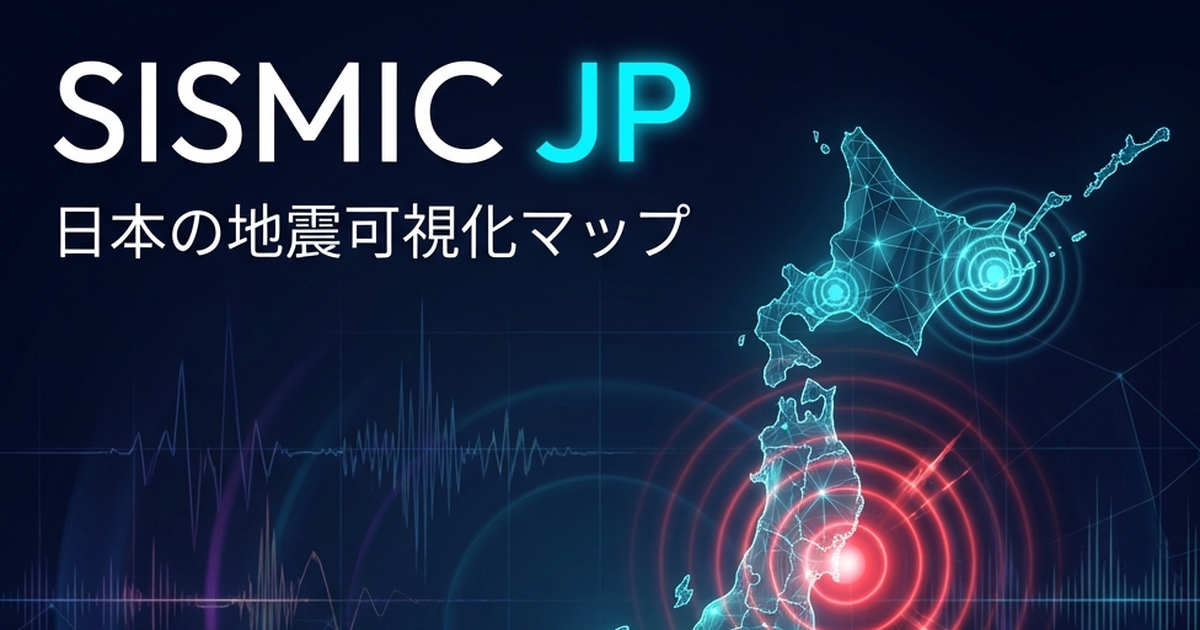
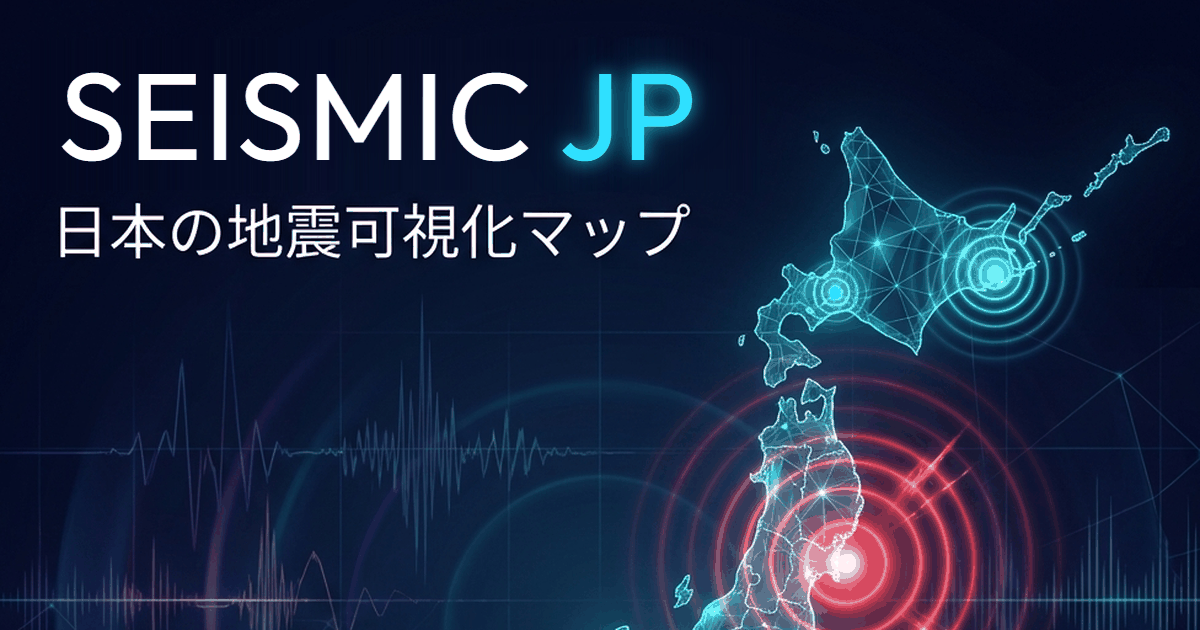
Fix SISMIC typo in OGP image, fix year tabs overlapping header, add OGP size/alt and control aria-labels, drop real-time wording

diff --git a/index.html b/index.html
@@ -4,12 +4,12 @@
 <head>
     <meta charset="UTF-8">
     <meta name="viewport" content="width=device-width, initial-scale=1.0">
-    <title>SEISMIC JP - 日本の地震可視化マップ | リアルタイム地震データ</title>
+    <title>SEISMIC JP - 日本の地震可視化マップ | 毎日更新の地震データ</title>
 
     <!-- SEO Meta Tags -->
     <meta name="description"
-        content="日本周辺で発生した地震をリアルタイムで可視化。過去1年間の地震データをアニメーションで表示し、マグニチュード別に色分け。USGSの公式データを使用した信頼性の高い地震情報サイトです。">
-    <meta name="keywords" content="地震, 日本, 地震マップ, 地震可視化, earthquake, Japan, USGS, 地震データ, 地震情報, リアルタイム地震, マグニチュード">
+        content="日本周辺で発生した地震を地図上で可視化。毎日更新される過去1年間の地震データをアニメーションで表示し、マグニチュード別に色分け。USGSの公式データを使用した信頼性の高い地震情報サイトです。">
+    <meta name="keywords" content="地震, 日本, 地震マップ, 地震可視化, earthquake, Japan, USGS, 地震データ, 地震情報, 地震履歴, マグニチュード">
     <meta name="author" content="SEISMIC JP">
     <meta name="robots" content="index, follow">
     <link rel="canonical" href="https://prime-plasma.vercel.app/">
@@ -18,8 +18,11 @@
     <meta property="og:type" content="website">
     <meta property="og:url" content="https://prime-plasma.vercel.app/">
     <meta property="og:title" content="SEISMIC JP - 日本の地震可視化マップ">
-    <meta property="og:description" content="日本周辺で発生した地震をリアルタイムで可視化。過去1年間の地震データをアニメーションで表示し、マグニチュード別に色分け。">
+    <meta property="og:description" content="日本周辺で発生した地震を地図上で可視化。毎日更新される過去1年間の地震データをアニメーションで表示し、マグニチュード別に色分け。">
     <meta property="og:image" content="https://prime-plasma.vercel.app/images/og-image.png">
+    <meta property="og:image:width" content="1200">
+    <meta property="og:image:height" content="630">
+    <meta property="og:image:alt" content="SEISMIC JP - 日本の地震可視化マップ">
     <meta property="og:locale" content="ja_JP">
     <meta property="og:site_name" content="SEISMIC JP">
 
@@ -27,7 +30,7 @@
     <meta name="twitter:card" content="summary_large_image">
     <meta name="twitter:url" content="https://prime-plasma.vercel.app/">
     <meta name="twitter:title" content="SEISMIC JP - 日本の地震可視化マップ">
-    <meta name="twitter:description" content="日本周辺で発生した地震をリアルタイムで可視化。過去1年間の地震データをアニメーションで表示。">
+    <meta name="twitter:description" content="日本周辺で発生した地震を地図上で可視化。毎日更新される過去1年間の地震データをアニメーションで表示。">
     <meta name="twitter:image" content="https://prime-plasma.vercel.app/images/og-image.png">
 
     <!-- Favicon -->
@@ -47,7 +50,7 @@
         "@type": "WebApplication",
         "name": "SEISMIC JP",
         "alternateName": "日本地震可視化マップ",
-        "description": "日本周辺で発生した地震をリアルタイムで可視化するインタラクティブな地図アプリケーション",
+        "description": "日本周辺で発生した地震を地図上でアニメーション表示するインタラクティブな地図アプリケーション",
         "url": "https://prime-plasma.vercel.app/",
         "applicationCategory": "UtilitiesApplication",
         "operatingSystem": "Web Browser",
@@ -60,7 +63,7 @@
             "@type": "Organization",
             "name": "SEISMIC JP"
         },
-        "keywords": "地震, 日本, 地震マップ, リアルタイム, USGS"
+        "keywords": "地震, 日本, 地震マップ, 地震履歴, USGS"
     }
     </script>
 
@@ -158,12 +161,12 @@
 
                 <div class="info-section">
                     <h4>データソース</h4>
-                    <p><a href="https://earthquake.usgs.gov/" target="_blank">USGS Earthquake Hazards Program</a><br>
+                    <p><a href="https://earthquake.usgs.gov/" target="_blank" rel="noopener">USGS Earthquake Hazards Program</a><br>
                         対象地域: 日本周辺 (緯度20°〜50°N, 経度120°〜155°E)<br>
                         期間: 過去1年間<br>
                         更新: 毎日 (午前9時)</p>
-                    <p>地図タイル: <a href="https://www.esri.com/" target="_blank">Esri</a> (ベースマップ) /
-                        <a href="https://maps.gsi.go.jp/development/ichiran.html" target="_blank">国土地理院</a> (地形図)</p>
+                    <p>地図タイル: <a href="https://www.esri.com/" target="_blank" rel="noopener">Esri</a> (ベースマップ) /
+                        <a href="https://maps.gsi.go.jp/development/ichiran.html" target="_blank" rel="noopener">国土地理院</a> (地形図)</p>
                 </div>
 
                 <div class="info-section">
@@ -196,15 +199,15 @@
             </div>
 
             <div class="timeline-container">
-                <button id="play-pause-btn" class="control-btn play">
+                <button id="play-pause-btn" class="control-btn play" aria-label="再生 / 一時停止" title="再生 / 一時停止">
                     <svg viewBox="0 0 24 24" width="24" height="24">
                         <path id="play-icon" d="M8 5v14l11-7z" fill="currentColor" />
                         <path id="pause-icon" d="M6 19h4V5H6v14zm8-14v14h4V5h-4z" fill="currentColor"
                             style="display:none" />
                     </svg>
                 </button>
-                <input type="range" id="timeline-slider" min="0" max="100" value="0" step="0.1">
-                <div class="speed-controls" id="speed-controls">
+                <input type="range" id="timeline-slider" aria-label="タイムライン" min="0" max="100" value="0" step="0.1">
+                <div class="speed-controls" id="speed-controls" role="group" aria-label="再生速度">
                     <button class="speed-btn" data-speed="0.5">0.5x</button>
                     <button class="speed-btn active" data-speed="1">1x</button>
                     <button class="speed-btn" data-speed="2">2x</button>

diff --git a/css/style.css b/css/style.css
@@ -56,7 +56,7 @@ body {
 
 /* Header */
 .header-overlay {
-    top: 60px;
+    top: 92px;  /* clear the year-tab bar above */
     left: 20px;
     min-width: 250px;
 }
@@ -577,7 +577,7 @@ input[type=range]::-webkit-slider-thumb {
 
     /* Header Overlay */
     .header-overlay {
-        top: 70px;
+        top: 86px;
         left: 15px;
         min-width: 280px;
         padding: 14px 16px;
@@ -681,7 +681,7 @@ input[type=range]::-webkit-slider-thumb {
 
     /* Header Overlay */
     .header-overlay {
-        top: 55px;
+        top: 70px;
         left: 8px;
         right: auto;
         min-width: auto;
@@ -806,7 +806,7 @@ input[type=range]::-webkit-slider-thumb {
     }
 
     .header-overlay {
-        top: 48px;
+        top: 58px;
         left: 4px;
         padding: 8px 10px;
     }
